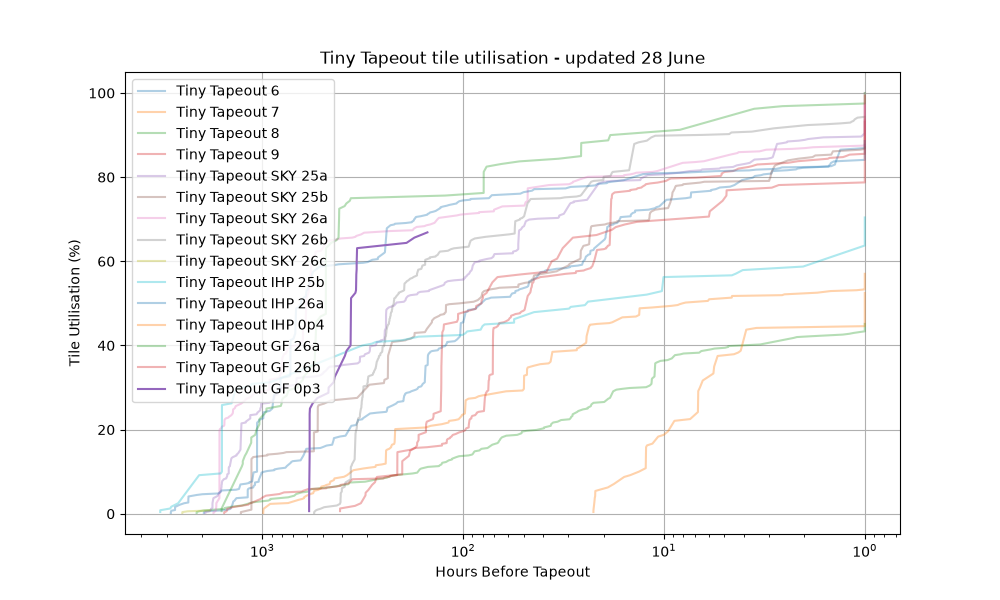
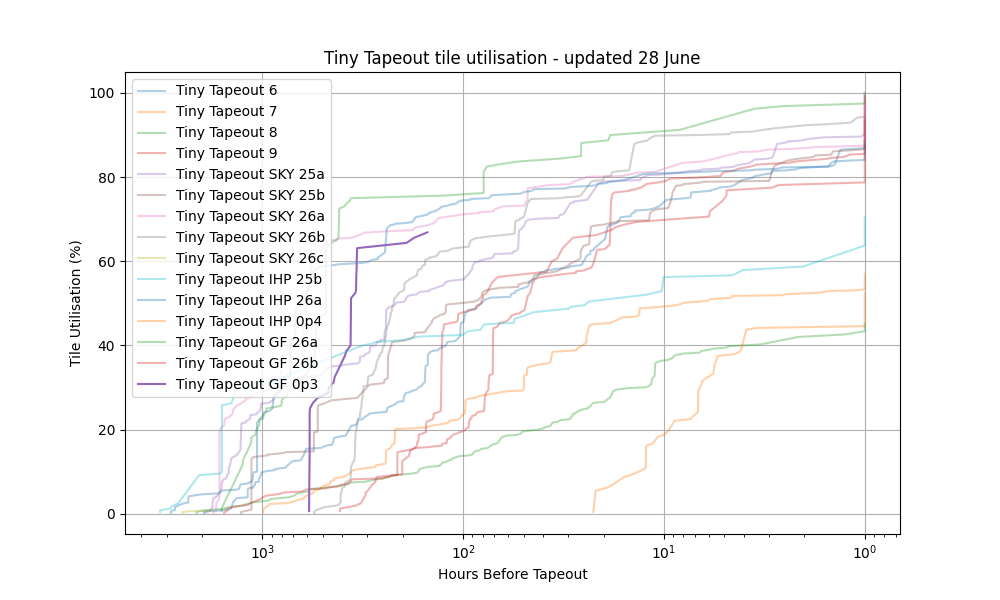
new graph

diff --git a/shuttle_stats.py b/shuttle_stats.py
@@ -1,6 +1,7 @@
 import requests
 import argparse
 import json
+import numpy as np
 import pandas as pd
 from datetime import datetime, timezone
 import matplotlib.pyplot as plt
@@ -148,5 +149,93 @@ plt.legend(loc="upper left")
 plt.grid(True)
 plt.savefig("tt_utilisation.png")
 
-if args.show:
-    plt.show()
+# Plot total projects per year (all shuttles)
+shuttle_year = {item["id"]: pd.to_datetime(item["deadline"]).year for item in shuttles}
+projects_per_shuttle = df.groupby('shuttle_id')['cumulative_projects'].max()
+year_totals = {}
+for shuttle_id, count in projects_per_shuttle.items():
+    year = shuttle_year.get(shuttle_id)
+    if year:
+        year_totals[year] = year_totals.get(year, 0) + count
+
+# TT brand colours
+tt_blue      = '#040371'
+tt_hot_pink  = '#f82381'
+tt_cyan      = '#3dfef7'
+tt_yellow    = '#fef244'
+
+# Average projects per completed production shuttle (exclude experimental 0p slugs)
+slug_map = {item["id"]: item["slug"] for item in shuttles}
+past_shuttle_ids = {item["id"] for item in shuttles if pd.to_datetime(item["deadline"]) < now_utc}
+production_past_ids = {sid for sid in past_shuttle_ids if '0p' not in slug_map.get(sid, '')}
+production_projects = [cnt for sid, cnt in projects_per_shuttle.items() if sid in production_past_ids]
+avg_per_shuttle = sum(production_projects) / len(production_projects) if production_projects else 0
+print(f"Avg projects per production shuttle: {avg_per_shuttle:.1f} (over {len(production_projects)} shuttles)")
+
+# 2026: actual from data + 5 more shuttles estimated
+actual_2026 = year_totals.get(2026, 0)
+estimated_2026_extra = 5 * avg_per_shuttle
+
+# Shuttle counts per year
+shuttles_per_year_actual = {}
+for sid, yr in shuttle_year.items():
+    shuttles_per_year_actual[yr] = shuttles_per_year_actual.get(yr, 0) + 1
+shuttles_in_2026 = shuttles_per_year_actual.get(2026, 0)
+total_2026_shuttles = shuttles_in_2026 + 5
+
+# Extrapolate 2027 shuttle count using quadratic fit (normalize years to avoid float instability)
+fit_years = sorted(shuttles_per_year_actual.keys())
+fit_counts = [total_2026_shuttles if y == 2026 else shuttles_per_year_actual[y] for y in fit_years]
+base_year = fit_years[0]
+fit_years_norm = [y - base_year for y in fit_years]
+coeffs = np.polyfit(fit_years_norm, fit_counts, 2)
+estimated_2027_shuttles = max(total_2026_shuttles, int(round(np.polyval(coeffs, 2027 - base_year))))
+estimated_2027 = estimated_2027_shuttles * avg_per_shuttle
+print(f"2026 shuttles in data: {shuttles_in_2026}, total projected: {total_2026_shuttles}")
+print(f"2027 shuttles extrapolated: {estimated_2027_shuttles}")
+print(f"Estimated 2026 extra: {estimated_2026_extra:.0f}, Estimated 2027 total: {estimated_2027:.0f}")
+
+past_years = sorted(y for y in year_totals if y < 2026)
+
+# Shuttle line: actual through 2026, then dashed to 2027 — share 2026 point so no gap
+line_actual_x = [str(y) for y in past_years] + ['2026']
+line_actual_y = [shuttles_per_year_actual.get(y, 0) for y in past_years] + [total_2026_shuttles]
+line_est_x = ['2026', '2027']
+line_est_y = [total_2026_shuttles, estimated_2027_shuttles]
+
+def make_chart(filename, bar_actual_color, bar_est_color):
+    fig, ax1 = plt.subplots(figsize=(10, 6))
+    fig.patch.set_facecolor('white')
+
+    ax1.bar([str(y) for y in past_years], [year_totals[y] for y in past_years],
+            color=bar_actual_color, label='Projects (actual)')
+    ax1.bar('2026', actual_2026, color=bar_actual_color)
+    ax1.bar('2026', estimated_2026_extra, bottom=actual_2026,
+            color=bar_est_color, label='Projects (estimated)')
+    ax1.bar('2027', estimated_2027, color=bar_est_color)
+    ax1.set_xlabel('Year')
+    ax1.set_ylabel('Number of Projects')
+
+    ax2 = ax1.twinx()
+    ax2.plot(line_actual_x, line_actual_y,
+             color='black', marker='o', linewidth=2.5, markersize=7,
+             label='Shuttles (actual)')
+    ax2.plot(line_est_x, line_est_y,
+             color='black', marker='o', linewidth=2.5, markersize=7,
+             linestyle='dashed', label='Shuttles (estimated)')
+    ax2.set_ylabel('Number of Shuttles')
+    ax2.set_ylim(bottom=0)
+
+    lines1, labels1 = ax1.get_legend_handles_labels()
+    lines2, labels2 = ax2.get_legend_handles_labels()
+    ax1.legend(lines1 + lines2, labels1 + labels2, loc='upper left', handlelength=3)
+
+    plt.title(f'Tiny Tapeout total projects taped out per year - updated {update_date}')
+    ax1.grid(True, axis='y', alpha=0.3)
+    plt.tight_layout()
+    plt.savefig(filename)
+    if args.show:
+        plt.show()
+    plt.close()
+
+make_chart("tt_projects_per_year.png", '#8486b8', '#888888')

diff --git a/README.md b/README.md
@@ -4,4 +4,6 @@
 
 ![utilisation](tt_utilisation.png)
 
+![projects per year](tt_projects_per_year.png)
+
 Parses data from https://app.tinytapeout.com/api/shuttles/submission-stats to show the number of projects submitted and tile utilisation over time for the most recent Tiny Tapeout shuttles.